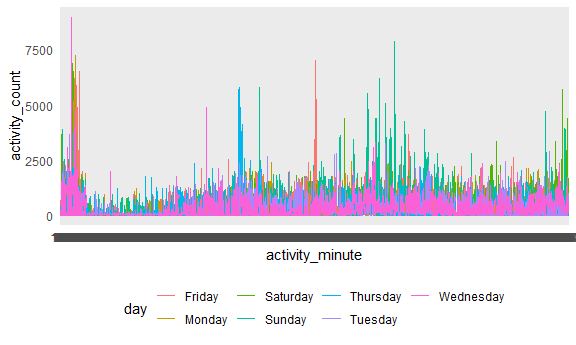
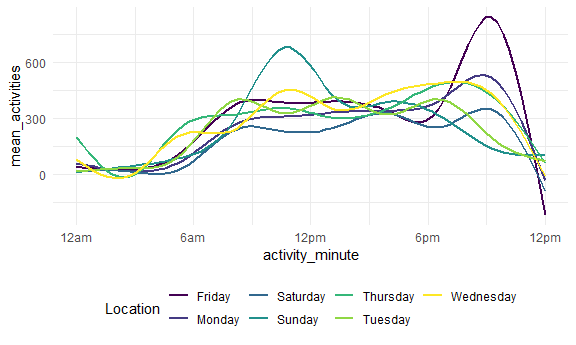
Smoothed plot for problem 2 and fixed mutate of activity data

diff --git a/p8105_hw3_rsh2155.md b/p8105_hw3_rsh2155.md
@@ -135,7 +135,8 @@ accel_df =
     names_to = "activity_minute",
     values_to = "activity_count"
     ) %>% 
-  mutate(activity_minute = substr(activity_minute, 10, 12)) %>% 
+  mutate(activity_minute = substr(activity_minute, 10, 13)) %>% 
+  mutate(activity_minute = as.numeric(activity_minute)) %>% 
   mutate(weekday_weekend = recode(day, "Monday" = "weekday", "Tuesday" = "weekday", "Wednesday" = "weekday", "Thursday" = "weekday", "Friday" = "weekday", "Saturday" = "weekend", "Sunday" = "weekend"))
 ```
 
@@ -212,12 +213,33 @@ Single panel plot Show activity - minute on x, activity count on y
 Geom\_line maybe Color of day of week (aes mapping)
 
 ``` r
-accel_df %>% 
-  ggplot(aes(x = activity_minute, y = activity_count, color = day)) +
-  geom_line()
+accel_df %>%
+  group_by(day, activity_minute) %>% 
+  summarize(mean_activities = mean(activity_count)) %>% 
+  ggplot(aes(x = activity_minute, y = mean_activities, color = day)) + 
+  scale_x_continuous(
+    breaks = c(1, 360, 720, 1080, 1440),
+    labels = c("12am", "6am", "12pm", "6pm", "12pm")
+  ) +
+  geom_smooth(se = FALSE) +
+  viridis::scale_color_viridis(
+    name = "Location",
+    discrete = TRUE)
 ```
 
+    ## `summarise()` regrouping output by 'day' (override with `.groups` argument)
+
+    ## `geom_smooth()` using method = 'gam' and formula 'y ~ s(x, bs = "cs")'
+
 <img src="p8105_hw3_rsh2155_files/figure-gfm/unnamed-chunk-8-1.png" width="90%" />
+
+From the above plot, we can see that starting at around midnight every
+day, on average the individual was moving hardly at all which is to be
+expected because he is likely asleep. Some noteworthy spikes on the plot
+are on Sundays, activity was quite high between 9 am and noon, and on
+Fridays, activity was even higher between 8 pm and 10 pm. In general,
+all days have steadily increasing activity from 6 am to 10 am, at which
+point activity stabilizes before reducing around 9 pm.
 
 ## Problem 3
 
